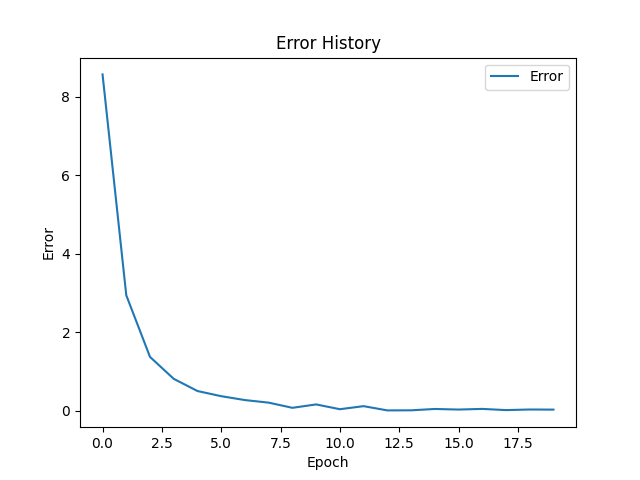
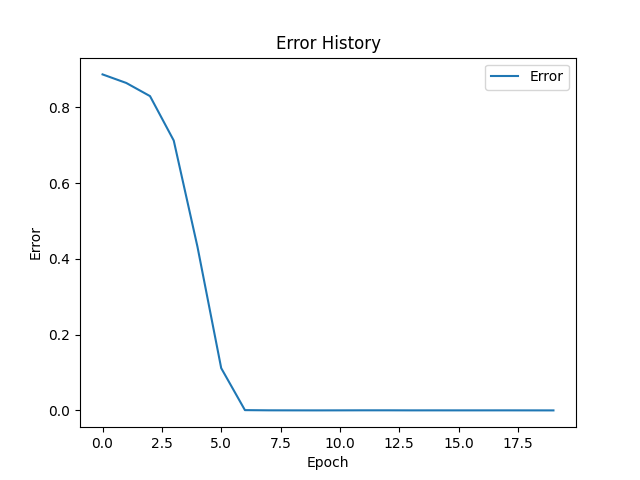
Test ann with different activation functions and fix small error in plants

diff --git a/controllers/PIDcontroller.py b/controllers/PIDcontroller.py
@@ -1,11 +1,11 @@
 from controllers.controller import CONTROLLER, abstractmethod
-import jax
 
 class PIDCONTROLLER(CONTROLLER):
-
 
     def compute_control_signal(self, params, state):
         error = state["error_history"][-1]  
         error_derivative = state["error_history"][-2] - error
         error_integral = sum(state["error_history"])
         return params[0] * error + params[1] * error_derivative + params[2] * error_integral
+
+

diff --git a/plants/chemical_reaction_plant.py b/plants/chemical_reaction_plant.py
@@ -15,7 +15,7 @@ class CHEMICAL_REACTION_PLANT(PLANT):
 
         # Update concentration based on reaction rate and control signal
         new_concentration = current_concentration - self.k * current_concentration + control_signal + disturbance
-        return new_concentration
+        return max(new_concentration, 0)
 
     def get_initial_value(self):
         return self.initial_concentration

diff --git a/plants/bathtub_plant.py b/plants/bathtub_plant.py
@@ -15,7 +15,7 @@ class BATHTUB_PLANT(PLANT):
     control_signal = state["control_signal"]
     volume = state["value"] * self.A
     drain = self.C * jnp.sqrt(2 * 9.8 * state["value"])
-    return (volume + disturbance + control_signal - drain) / self.A
+    return max((volume + disturbance + control_signal - drain) / self.A, 0)
 
   def get_initial_value(self):
     return self.target

diff --git a/consys.py b/consys.py
@@ -103,6 +103,5 @@ class CONSYS:
         return new_params 
     
     def update_params_ann(self, params, gradients):
-        print(gradients)
         return [(w - self.learning_rate * dw, b - self.learning_rate * db) 
                 for (w, b), (dw, db) in zip(params, gradients)]
